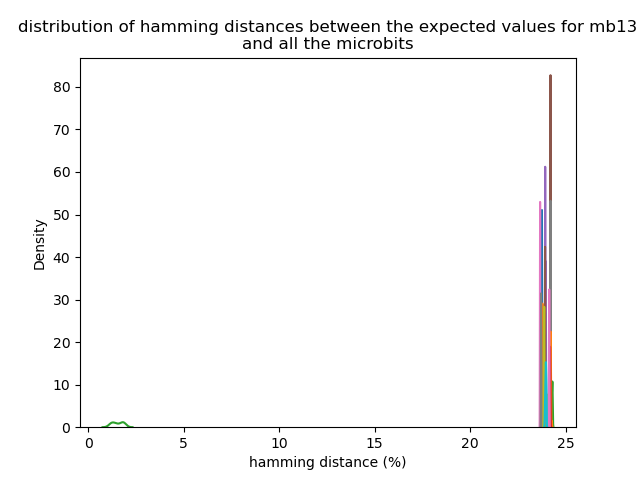
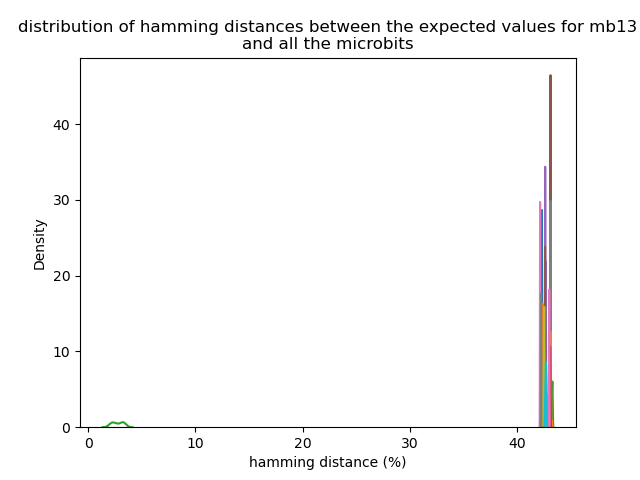
more figures

diff --git a/analysis_2.py b/analysis_2.py
@@ -264,7 +264,7 @@ def chip_fingerprints(mbdatas):
 if __name__ == "__main__":
     ## load data
     # read_data_from_files()
-    # read_full_data_from_files()
+    read_full_data_from_files()
     # print("data saved to pickle..")
 
     # [mb1trdata, mb2trdata, mb3trdata, mb4trdata, mb5trdata]= load("temp/mbtrdata.npy") # read data from pickle
@@ -284,17 +284,17 @@ if __name__ == "__main__":
         all_mb_dists = []
         for mbtedata in all_mb_data:
             mb_dists = get_weighted_hamming_distances(mbtedata[:, volatile_bits_mask], rounded_exp_values_mb1, mb1_weightings)
+
             all_mb_dists.append(mb_dists)
 
         ## plot the weighted hamming distances between the test microbit and expected values
-        # density_plots(all_mb_dists, all_mb_data[0].shape[1], "figs/density_plots/base_mb_{0}.png".format(i+1), i+1)
-
+        density_plots(all_mb_dists, np.sum(volatile_bits_mask.astype(int)), "figs/density_plots/base_mb_{0}.png".format(i+1), i+1)
 
 
         ## plot images of expected values for different chip layouts
-        try: os.mkdir("figs/chip_layouts/mb{0}_chip_layouts".format(i+1))
-        except: pass
-        chip_topology_plots(all_mb_data[i], dir="figs/chip_layouts/mb{0}_chip_layouts".format(i+1), rl = 16384)
+        # try: os.mkdir("figs/chip_layouts/mb{0}_chip_layouts".format(i+1))
+        # except: pass
+        # chip_topology_plots(all_mb_data[i], dir="figs/chip_layouts/mb{0}_chip_layouts".format(i+1), rl = 16384)
 
     ## plot the expected values for each of the microbits in the database linearly
     # chip_fingerprints(all_mb_data)
